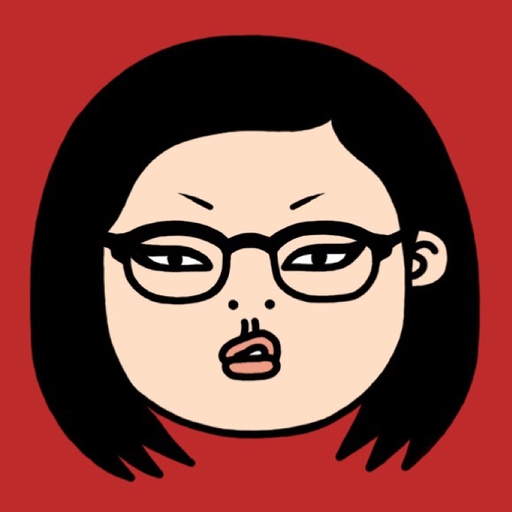
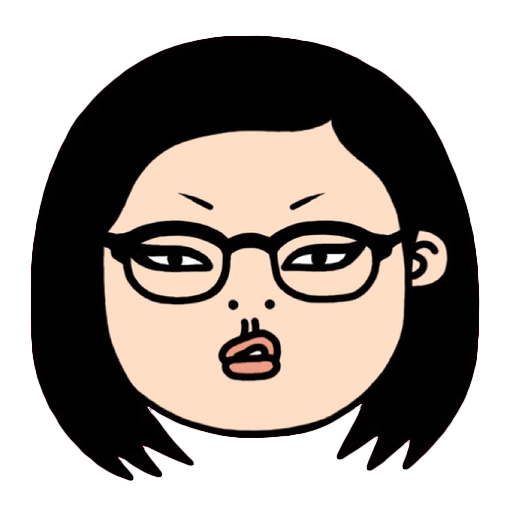
cosmetic update
-update favicon
-make avatar rounded

diff --git a/css/style.scss b/css/style.scss
@@ -1,4 +1,6 @@
 @import url('../../Templates/css/reset.css');
+@import url('../../Templates/css/style.scss');
+
 @import url('https://maxcdn.bootstrapcdn.com/font-awesome/4.7.0/css/font-awesome.min.css');
 
 $size: 12px;
@@ -46,7 +48,7 @@ a {
     }
     .avatar {
       max-width: 100px;
-      // @include border-radius(20%);
+      @include border-radius(20%);
     }
     .intro {
       max-width: 400px;
